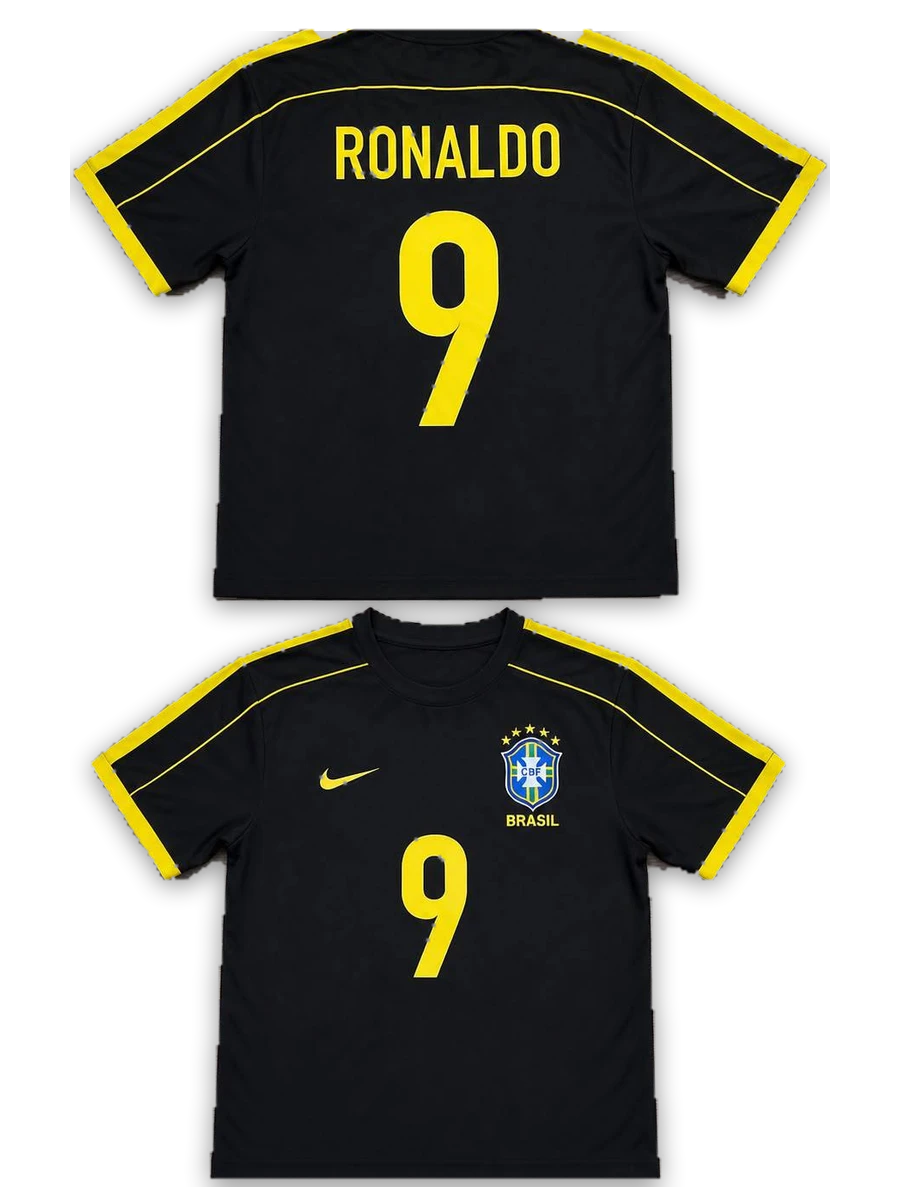
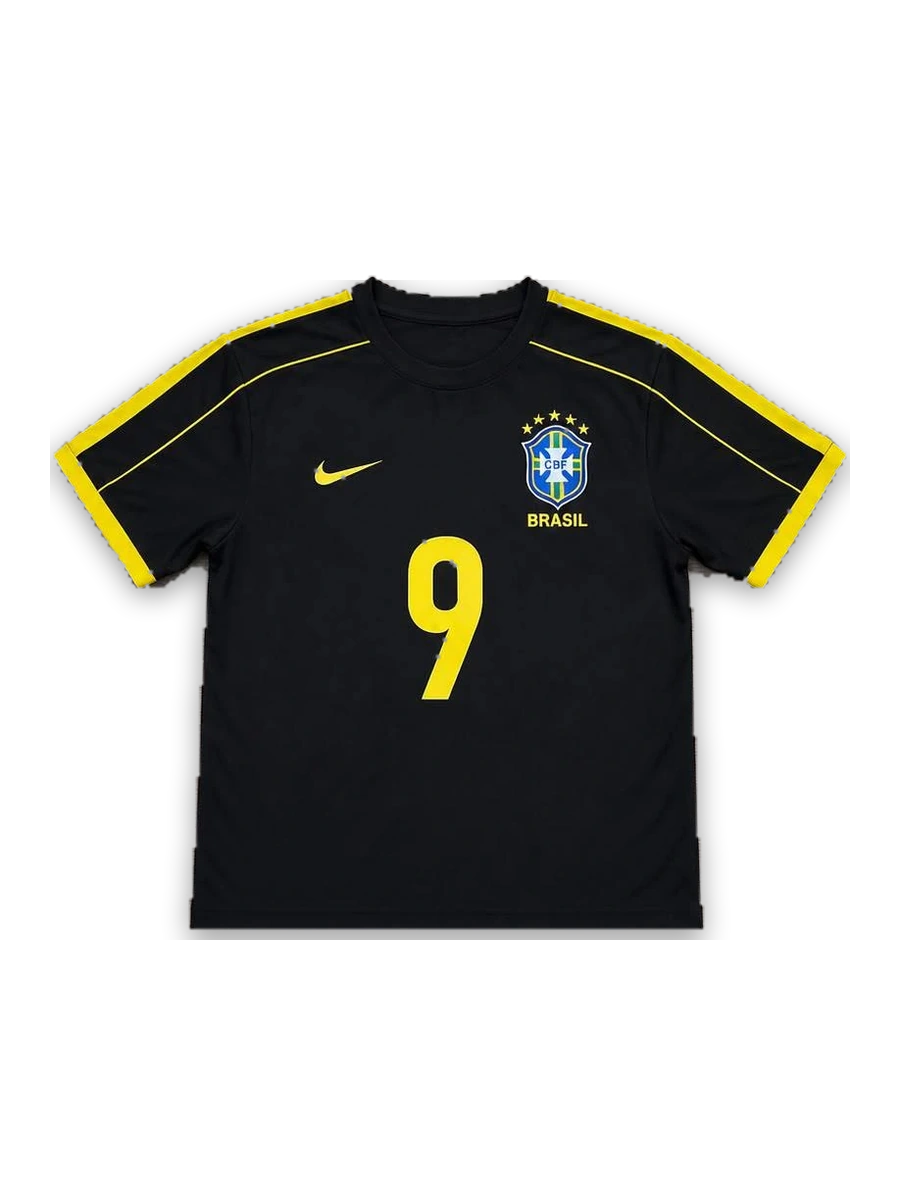
Add files via upload

diff --git a/index.html b/index.html
@@ -314,9 +314,9 @@
         <article class="product-card reveal" data-team="zamalek" style="--delay:210ms"><div class="product-visual"><span class="product-index">04 / S7</span><span class="product-tag">الزمالك</span><img class="product-image" src="assets/products/zamalek-white-red-gallery.webp" alt="تيشرت الزمالك الأبيض بتفاصيل حمراء" loading="lazy" decoding="async"><div class="product-bottomline"><span>أبيض × أحمر</span><span>SE7EN</span></div></div><div class="product-info"><div><p class="product-type">ألوان النادي</p><h3 class="product-name">تيشرت الزمالك الأبيض</h3><p class="product-description">تصميم أبيض بخطوط جانبية حمراء وتفاصيل رياضية</p><p class="product-price">350 جنيه</p></div><span class="product-number">04</span></div><button class="view-btn" type="button" data-product="zamalek-white"><span>عرض الصورة والتفاصيل</span><span>↗</span></button></article>
         <article class="product-card reveal" data-team="ahly" style="--delay:280ms"><div class="product-visual"><span class="product-index">05 / S7</span><span class="product-tag">الأهلي</span><img class="product-image" src="assets/products/al-ahly-black-gold-gallery.webp" alt="تيشرت الأهلي الأسود بخطوط وتفاصيل ذهبية" loading="lazy" decoding="async"><div class="product-bottomline"><span>أسود × ذهبي</span><span>SE7EN</span></div></div><div class="product-info"><div><p class="product-type">كلاسيك داكن</p><h3 class="product-name">تيشرت الأهلي الأسود والذهبي</h3><p class="product-description">قميص أسود بخطوط ذهبية وشعار النادي وتفاصيل كلاسيكية</p><p class="product-price">350 جنيه</p></div><span class="product-number">05</span></div><button class="view-btn" type="button" data-product="ahly-black-gold"><span>عرض الصورة والتفاصيل</span><span>↗</span></button></article>
         <article class="product-card reveal" data-team="ahly" style="--delay:350ms"><div class="product-visual"><span class="product-index">06 / S7</span><span class="product-tag">الأهلي</span><img class="product-image" src="assets/products/al-ahly-red-classic-gallery.webp" alt="تيشرت الأهلي الأحمر الكلاسيكي بخطوط سوداء" loading="lazy" decoding="async"><div class="product-bottomline"><span>أحمر × أسود</span><span>SE7EN</span></div></div><div class="product-info"><div><p class="product-type">كلاسيك النادي</p><h3 class="product-name">تيشرت الأهلي الأحمر</h3><p class="product-description">تصميم أحمر بخطوط وتفاصيل سوداء بطابع كروي كلاسيكي</p><p class="product-price">350 جنيه</p></div><span class="product-number">06</span></div><button class="view-btn" type="button" data-product="ahly-red"><span>عرض الصورة والتفاصيل</span><span>↗</span></button></article>
-        <article class="product-card reveal" data-team="brazil" style="--delay:420ms"><div class="product-visual"><span class="product-index">07 / S7</span><span class="product-tag">البرازيل</span><img class="product-image" src="assets/products/brazil-ronaldo9-gallery.webp" alt="قميص البرازيل الأسود والأصفر باسم رونالدو ورقم 9 من الأمام والخلف" loading="lazy" decoding="async"><div class="product-bottomline"><span>أسود × أصفر</span><span>RONALDO 9</span></div></div><div class="product-info"><div><p class="product-type">أساطير الكرة</p><h3 class="product-name">تيشرت البرازيل — رونالدو 9</h3><p class="product-description">تصميم أسود بتفاصيل صفراء مع اسم رونالدو ورقم 9، ويعرض الأمام والخلف</p><p class="product-price">350 جنيه</p></div><span class="product-number">07</span></div><button class="view-btn" type="button" data-product="brazil-ronaldo"><span>عرض الصورة والتفاصيل</span><span>↗</span></button></article>
-        <article class="product-card reveal" data-team="manutd" style="--delay:490ms"><div class="product-visual"><span class="product-index">08 / S7</span><span class="product-tag">مانشستر يونايتد</span><img class="product-image" src="assets/products/man-utd-black-aig-gallery.webp" alt="تيشرت مانشستر يونايتد الأسود الكلاسيكي بشعار AIG من الأمام والخلف" loading="lazy" decoding="async"><div class="product-bottomline"><span>أسود × أبيض</span><span>MAN UNITED</span></div></div><div class="product-info"><div><p class="product-type">كلاسيك أوروبي</p><h3 class="product-name">تيشرت مانشستر يونايتد الأسود</h3><p class="product-description">نسخة سوداء كلاسيكية بشعار AIG، مع عرض الأمام والخلف</p><p class="product-price">350 جنيه</p></div><span class="product-number">08</span></div><button class="view-btn" type="button" data-product="manutd-black"><span>عرض الصورة والتفاصيل</span><span>↗</span></button></article>
-        <article class="product-card reveal" data-team="manutd" style="--delay:560ms"><div class="product-visual"><span class="product-index">09 / S7</span><span class="product-tag">مانشستر يونايتد</span><img class="product-image" src="assets/products/man-utd-red-aig-gallery.webp" alt="تيشرت مانشستر يونايتد الأحمر الكلاسيكي بشعار AIG من الأمام والخلف" loading="lazy" decoding="async"><div class="product-bottomline"><span>أحمر × أبيض</span><span>MAN UNITED</span></div></div><div class="product-info"><div><p class="product-type">ألوان الشياطين الحمر</p><h3 class="product-name">تيشرت مانشستر يونايتد الأحمر</h3><p class="product-description">القميص الأحمر الكلاسيكي بشعار AIG وتفاصيل النادي</p><p class="product-price">350 جنيه</p></div><span class="product-number">09</span></div><button class="view-btn" type="button" data-product="manutd-red"><span>عرض الصورة والتفاصيل</span><span>↗</span></button></article>
+        <article class="product-card reveal" data-team="brazil" style="--delay:420ms"><div class="product-visual"><span class="product-index">07 / S7</span><span class="product-tag">البرازيل</span><img class="product-image" src="assets/products/brazil-ronaldo9-gallery.webp" alt="تيشرت البرازيل الأسود والأصفر باسم رونالدو ورقم 9 من الأمام" loading="lazy" decoding="async"><div class="product-bottomline"><span>أسود × أصفر</span><span>RONALDO 9</span></div></div><div class="product-info"><div><p class="product-type">أساطير الكرة</p><h3 class="product-name">تيشرت البرازيل — رونالدو 9</h3><p class="product-description">تصميم أسود بتفاصيل صفراء مع اسم رونالدو ورقم 9</p><p class="product-price">350 جنيه</p></div><span class="product-number">07</span></div><button class="view-btn" type="button" data-product="brazil-ronaldo"><span>عرض الوش والظهر</span><span>↗</span></button></article>
+        <article class="product-card reveal" data-team="manutd" style="--delay:490ms"><div class="product-visual"><span class="product-index">08 / S7</span><span class="product-tag">مانشستر يونايتد</span><img class="product-image" src="assets/products/man-utd-black-aig-gallery.webp" alt="تيشرت مانشستر يونايتد الأسود الكلاسيكي بشعار AIG من الأمام" loading="lazy" decoding="async"><div class="product-bottomline"><span>أسود × أبيض</span><span>MAN UNITED</span></div></div><div class="product-info"><div><p class="product-type">كلاسيك أوروبي</p><h3 class="product-name">تيشرت مانشستر يونايتد الأسود</h3><p class="product-description">نسخة سوداء كلاسيكية بشعار AIG وتفاصيل بيضاء</p><p class="product-price">350 جنيه</p></div><span class="product-number">08</span></div><button class="view-btn" type="button" data-product="manutd-black"><span>عرض الوش والظهر</span><span>↗</span></button></article>
+        <article class="product-card reveal" data-team="manutd" style="--delay:560ms"><div class="product-visual"><span class="product-index">09 / S7</span><span class="product-tag">مانشستر يونايتد</span><img class="product-image" src="assets/products/man-utd-red-aig-gallery.webp" alt="تيشرت مانشستر يونايتد الأحمر الكلاسيكي بشعار AIG من الأمام" loading="lazy" decoding="async"><div class="product-bottomline"><span>أحمر × أبيض</span><span>MAN UNITED</span></div></div><div class="product-info"><div><p class="product-type">ألوان الشياطين الحمر</p><h3 class="product-name">تيشرت مانشستر يونايتد الأحمر</h3><p class="product-description">القميص الأحمر الكلاسيكي بشعار AIG وتفاصيل النادي</p><p class="product-price">350 جنيه</p></div><span class="product-number">09</span></div><button class="view-btn" type="button" data-product="manutd-red"><span>عرض الوش والظهر</span><span>↗</span></button></article>
         <article class="product-card reveal" data-team="trabzonspor" style="--delay:630ms"><div class="product-visual"><span class="product-index">10 / S7</span><span class="product-tag">طرابزون سبور</span><img class="product-image" src="assets/products/trabzonspor-black-blue-gallery.webp" alt="تيشرت طرابزون سبور الأسود بتفاصيل زرقاء فاتحة" loading="lazy" decoding="async"><div class="product-bottomline"><span>أسود × أزرق</span><span>TRABZONSPOR</span></div></div><div class="product-info"><div><p class="product-type">ستايل تركي</p><h3 class="product-name">تيشرت طرابزون سبور</h3><p class="product-description">تصميم أسود مع أكتاف وتفاصيل زرقاء فاتحة</p><p class="product-price">350 جنيه</p></div><span class="product-number">10</span></div><button class="view-btn" type="button" data-product="trabzonspor"><span>عرض الصورة والتفاصيل</span><span>↗</span></button></article>
         <article class="product-card reveal" data-team="realmadrid" style="--delay:700ms"><div class="product-visual"><span class="product-index">11 / S7</span><span class="product-tag">ريال مدريد</span><img class="product-image" src="assets/products/real-madrid-black-gallery.webp" alt="تيشرت ريال مدريد الأسود بتفاصيل بيضاء وشعار النادي" loading="lazy" decoding="async"><div class="product-bottomline"><span>أسود × أبيض</span><span>REAL MADRID</span></div></div><div class="product-info"><div><p class="product-type">ستايل ملكي</p><h3 class="product-name">تيشرت ريال مدريد الأسود</h3><p class="product-description">تصميم أسود بشعار ريال مدريد وتفاصيل رياضية كلاسيكية</p><p class="product-price">350 جنيه</p></div><span class="product-number">11</span></div><button class="view-btn" type="button" data-product="real-madrid"><span>عرض الصورة والتفاصيل</span><span>↗</span></button></article>
       </div>

diff --git a/README.md b/README.md
@@ -1,4 +1,4 @@
-# Se7en Store — V12
+# Se7en Store — V15
 
 واجهة معرض ملابس رياضية باللغة العربية (RTL)، بهوية سوداء وبيضاء، من غير أسعار أو دفع إلكتروني.
 
@@ -36,3 +36,9 @@
 - إزالة خلفيات صور التيشيرتات الثمانية الجديدة وتحويلها إلى صور شفافة متناسقة مع أول 3 منتجات.
 - توحيد سعر جميع التيشيرتات المعروضة على الموقع إلى 350 جنيهًا.
 - إظهار السعر في بطاقات المنتجات ونافذة تفاصيل المنتج.
+
+
+## تحديث V15
+- صور البطاقات لتيشيرت البرازيل ومانشستر يونايتد تعرض الوش فقط.
+- عند فتح التفاصيل تظهر الصورة الكاملة التي تعرض الوش والظهر، مع توضيح ذلك في زر العرض.
+- السعر يظل موحدًا: 350 جنيهًا لكل المنتجات.
